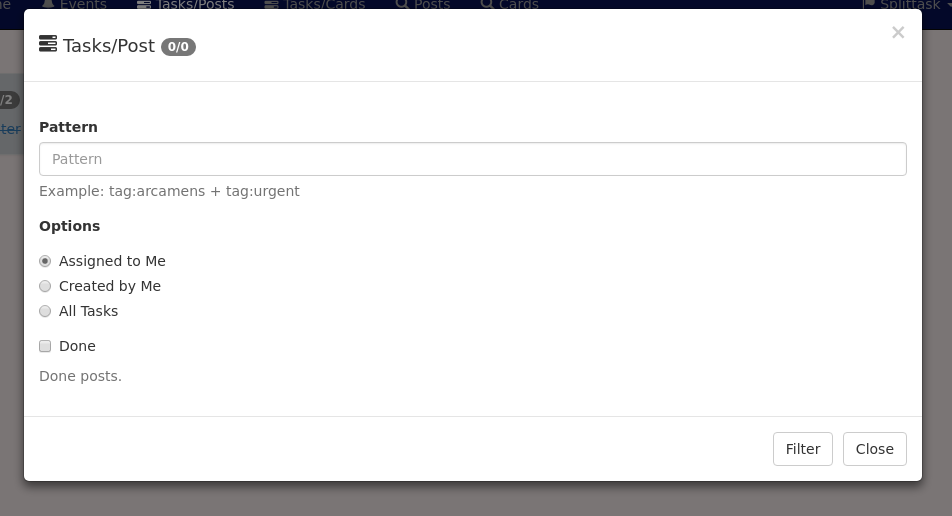
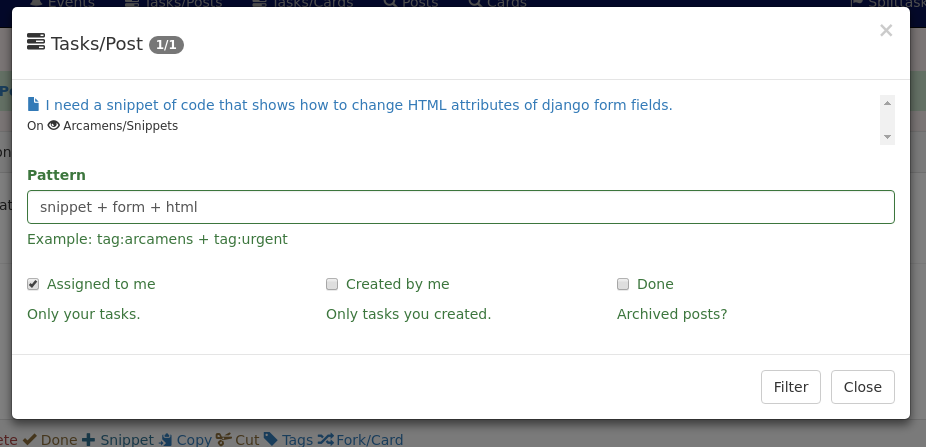
Updating docs. https://staging.arcamens.com/card_app/card-link/636/

diff --git a/site_app/static/site_app/help/index.html b/site_app/static/site_app/help/index.html
@@ -31,8 +31,8 @@
 <li><a href="#board-permissions">Board Permissions</a></li>
 <li><a href="#tag-creation">Tag Creation</a></li>
 <li><a href="#card-tags">Card Tags</a></li>
-<li><a href="#search-for-card-tasks">Search for Card Tasks</a></li>
 <li><a href="#card-search">Card Search</a></li>
+<li><a href="#search-for-card-tasks">Search for Card Tasks</a></li>
 <li><a href="#organization-creation">Organization Creation</a></li>
 <li><a href="#timelines">Timelines</a></li>
 <li><a href="#timeline-creation">Timeline Creation</a></li>
@@ -45,8 +45,8 @@
 <li><a href="#organization-admins">Organization Admins</a></li>
 <li><a href="#timeline-members">Timeline Members</a></li>
 <li><a href="#post-e-mailnotifications">Post E-mail/Notifications</a></li>
-<li><a href="#search-for-post-tasks">Search for Post Tasks</a></li>
 <li><a href="#post-search">Post Search</a></li>
+<li><a href="#search-for-post-tasks">Search for Post Tasks</a></li>
 <li><a href="#event-comments">Event Comments</a></li>
 <li><a href="#post-filter">Post Filter</a></li>
 <li><a href="#collection-filter">Collection Filter</a></li>
@@ -216,36 +216,6 @@ Github/Doing
 <img src="/static/site_app/help/card-tags-3.png" alt="card-tags-3" /><figcaption>card-tags-3</figcaption>
 </figure>
 <p>If you add/remove a tag to a card then everyone who is related to the card will get notified. You can look up the card tags by typing some pattern that shows on the tag name/description then hit enter. It is useful when your organization has many tags.</p>
-<h3 id="search-for-card-tasks">Search for Card Tasks</h3>
-<p>In arcamens there is a generic concept of task, a card becomes into a task when it is assigned to someone. When the task is accomplished then one can just archive it. The card will remain available for later inspection.</p>
-<p>In order to search for active or archived cards that contain bound workers to, just click on the Tasks/Cards at the navbar:</p>
-<p><strong>Note:</strong> The mechanism will match the search pattern against all cards that can be accessed by you.</p>
-<figure>
-<img src="/static/site_app/help/search-for-card-tasks-0.png" alt="search-for-card-tasks-0" /><figcaption>search-for-card-tasks-0</figcaption>
-</figure>
-<p>From the dialog window you can search through all cards that have at least one user bound to.</p>
-<figure>
-<img src="/static/site_app/help/search-for-card-tasks-1.png" alt="search-for-card-tasks-1" /><figcaption>search-for-card-tasks-1</figcaption>
-</figure>
-<p><strong>Assigned to me</strong></p>
-<p>When this option is checked then the filter pattern will be matched against all cards that were assigned to you.</p>
-<p><strong>Created by Me</strong></p>
-<p>When this option is checked then the filter pattern will match all cards that were assigned to someone and the owner is you.</p>
-<p><strong>All Tasks</strong></p>
-<p>Use this option for matching the filter pattern over all cards that contain at least one worker assigned to.</p>
-<p><strong>Done</strong></p>
-<p>This option allows to search for archived cards instead of active ones.</p>
-<p>Consider the filter pattern below and the three listed cards in the above picture. Assume you dont know who has created such a card then leave the All Tasks option checked.</p>
-<pre><code>any + create + tag</code></pre>
-<p>The above pattern would match the card label is:</p>
-<pre><code>Anybody can create/delete a tag </code></pre>
-<p>If you wrote as pattern:</p>
-<pre><code>bug with + zone</code></pre>
-<p>It would match:</p>
-<pre><code>Bug with timezone. </code></pre>
-<p>Notice that it also checks for card data attribute (the one which can contain markdown). The string patterns are delimited by the plus sign ‘+’, the listed cards should contain each one of the pattern strings either in the label or data attribute.</p>
-<p>You can get more than one match depending on the pattern and the existing cards. Once you have filtered the cards then you can click on the card link and open it in the actual browser tab or just right click and open in a new tab.</p>
-<p><strong>See:</strong> <a href="#advanced-card-search">Advanced Card Search</a></p>
 <h3 id="card-search">Card Search</h3>
 <p>In order to perform global card search just click on: Cards at the navbar.</p>
 <figure>
@@ -260,6 +230,26 @@ Github/Doing
 <pre><code>python django + render template + form</code></pre>
 <p>It would list all cards that contain the strings ‘python django’, ‘render template’ ad ‘form’ either in the label or data attribute.</p>
 <p>Notice that if you wanted the search pattern to be matched against archived cards instead, then it would be necessary to mark the field Done as checked.</p>
+<p><strong>See:</strong> <a href="#advanced-card-search">Advanced Card Search</a></p>
+<h3 id="search-for-card-tasks">Search for Card Tasks</h3>
+<p>In arcamens there is a generic concept of task, a card becomes a task when it is assigned to someone. When the task is accomplished then one can just archive it. The card will remain available for later inspection.</p>
+<p>In order to search for active or archived cards that contain bound workers to, just click on the Tasks/Cards at the navbar:</p>
+<p><strong>Note:</strong> The mechanism will match the search pattern against all cards that can be accessed by you.</p>
+<figure>
+<img src="/static/site_app/help/search-for-card-tasks-0.png" alt="search-for-card-tasks-0" /><figcaption>search-for-card-tasks-0</figcaption>
+</figure>
+<p>From the dialog window you can search through all cards that have at least one user bound to.</p>
+<figure>
+<img src="/static/site_app/help/search-for-card-tasks-1.png" alt="search-for-card-tasks-1" /><figcaption>search-for-card-tasks-1</figcaption>
+</figure>
+<p><strong>Assigned to me</strong></p>
+<p>When this option is checked then the filter pattern will be matched against all cards that were assigned to you.</p>
+<p><strong>Created by Me</strong></p>
+<p>When this option is checked then the filter pattern will match all cards that were assigned to someone and the owner is you.</p>
+<p><strong>Done</strong></p>
+<p>This option allows to search for archived cards instead of active ones.</p>
+<p>In the above example it finds all cards that are assigned to you and contain the strings ‘bug’ and ‘timezone’ either in the label or data attributes.</p>
+<p>You can get more than one match depending on the pattern and the existing cards. Once you have filtered the cards then you can click on the card link and open it in the actual browser tab or just right click and open in a new tab.</p>
 <p><strong>See:</strong> <a href="#advanced-card-search">Advanced Card Search</a></p>
 <h3 id="organization-creation">Organization Creation</h3>
 <p>Organizations can serve on multiple purposes depending on the kind of business and size. You can map a team to an organization, a business branch to an organization or even handle all your business team in a single organization.</p>
@@ -392,34 +382,6 @@ Github/Doing
 </figure>
 <p>Fill the form and send the e-mail notification.</p>
 <p>You can as well send notification to all post workers by clicking on Alert Workers.</p>
-<h3 id="search-for-post-tasks">Search for Post Tasks</h3>
-<p>When a post is created and it is assigned to someone then it becomes a task. It is possible to search for archived or active tasks by clicking at the Tasks/Posts link at the navbar:</p>
-<figure>
-<img src="/static/site_app/help/search-for-post-tasks-0.png" alt="search-for-post-tasks-0" /><figcaption>search-for-post-tasks-0</figcaption>
-</figure>
-<p>Then you would get:</p>
-<figure>
-<img src="/static/site_app/help/search-for-post-tasks-1.png" alt="search-for-post-tasks-1" /><figcaption>search-for-post-tasks-1</figcaption>
-</figure>
-<p>The option <strong>Assigned to Me</strong> would perform the search pattern through all tasks that someone has assigned to you even if it was assigned by yourself.</p>
-<p>If you option for <strong>Created by Me</strong> then it would check the pattern against all posts that you created and it was at least one worker binded to.</p>
-<p>When <strong>All Tasks</strong> is checked then it matches against all posts that you were assigned to or are on all your timelines.</p>
-<p>The simplest example of pattern consists of merely strings:</p>
-<pre><code>bug with engine</code></pre>
-<p>The above example would list all posts whose label or data fields contain the entire string.</p>
-<figure>
-<img src="/static/site_app/help/search-for-post-tasks-2.png" alt="search-for-post-tasks-2" /><figcaption>search-for-post-tasks-2</figcaption>
-</figure>
-<p>You could do:</p>
-<pre><code>bug with + engine</code></pre>
-<p>In the above example it would list all posts that contains both two strings.</p>
-<figure>
-<img src="/static/site_app/help/search-for-post-tasks-3.png" alt="search-for-post-tasks-3" /><figcaption>search-for-post-tasks-3</figcaption>
-</figure>
-<p><strong>Note:</strong> You are allowed to form longer patterns like:</p>
-<pre><code>bug + with + engine + driver</code></pre>
-<p>It would list all posts that contains all the strings either in the label or markdown data fields.</p>
-<p><strong>Note:</strong> Leave the Done attribute checked for searching only through the archived posts.</p>
 <h3 id="post-search">Post Search</h3>
 <p>The post search mechanism allows to search through all posts that you have access regardless if it has a worker or not. For such just click on the Post link at the navbar:</p>
 <figure>
@@ -435,6 +397,22 @@ Github/Doing
 <p>Would find all posts where the strings ‘bug’ or ‘engine wheels’ show up.</p>
 <pre><code>bug + engine wheels</code></pre>
 <p>Leave the <strong>Done</strong> field checked to search only through archived posts.</p>
+<h3 id="search-for-post-tasks">Search for Post Tasks</h3>
+<p>When a post is created and it is assigned to someone then it becomes a task. It is possible to search for archived or active tasks by clicking at the Tasks/Posts link at the navbar:</p>
+<figure>
+<img src="/static/site_app/help/search-for-post-tasks-0.png" alt="search-for-post-tasks-0" /><figcaption>search-for-post-tasks-0</figcaption>
+</figure>
+<p>Then you would get:</p>
+<figure>
+<img src="/static/site_app/help/search-for-post-tasks-1.png" alt="search-for-post-tasks-1" /><figcaption>search-for-post-tasks-1</figcaption>
+</figure>
+<p>The option <strong>Assigned to me</strong> would perform the search pattern through all tasks that someone has assigned to you even if it was assigned by yourself.</p>
+<p>If you option for <strong>Created by me</strong> then it would check the pattern against all posts that you created and it was at least one worker binded to.</p>
+<p>In the above example it matches all cards that you are assigned to and contains the strings ‘snippet’, ‘form’, ‘html’.</p>
+<p>Notice that the order of strings is not relevant; You could also try:</p>
+<pre><code>need a snippet + form + html</code></pre>
+<p>Which would work alike.</p>
+<p><strong>Note:</strong> Leave the Done attribute checked for searching only through the archived posts.</p>
 <h3 id="event-comments">Event Comments</h3>
 <p>All kind of user actions in Arcamens are liable of being commented. Whenever an user assigns a worker to a post it generates an event then the event/action can be commented out.</p>
 <p>When an user action is commented then another event is generated but it doesn’t allow comments for action comments.</p>

diff --git a/site_app/static/site_app/help/index.md b/site_app/static/site_app/help/index.md
@@ -234,78 +234,6 @@ If you add/remove a tag to a card then everyone who is related to the card will 
 You can look up the card tags by typing some pattern that shows on the tag name/description then hit enter.
 It is useful when your organization has many tags.
 
-### Search for Card Tasks 
-
-In arcamens there is a generic concept of task, a card becomes into a task when it is
-assigned to someone. When the task is accomplished then one can just archive it. 
-The card will remain available for later inspection.
-
-In order to search for active or archived cards that contain bound workers to, just click on the Tasks/Cards
-at the navbar:
-
-**Note:** The mechanism will match the search pattern against all cards that can be accessed by you.
-
-![search-for-card-tasks-0](/static/site_app/help/search-for-card-tasks-0.png)
-
-From the dialog window you can search through all cards that have at least one user
-bound to. 
-
-![search-for-card-tasks-1](/static/site_app/help/search-for-card-tasks-1.png)
-
-**Assigned to me**
-
-When this option is checked then the filter pattern will be matched
-against all cards that were assigned to you.
-
-**Created by Me**
-
-When this option is checked then the filter pattern will match
-all cards that were assigned to someone and the owner is you.
-
-**All Tasks**
-
-Use this option for matching the filter pattern over all cards
-that contain at least one worker assigned to.
-
-**Done**
-
-This option allows to search for archived cards instead of active ones.
-
-Consider the filter pattern below and the three listed cards in the above picture.
-Assume you dont know who has created such a card then leave the All Tasks option checked.
-
-~~~
-any + create + tag
-~~~
-
-The above pattern would match the card label is:
-
-~~~
-Anybody can create/delete a tag 
-~~~
-
-If you wrote as pattern:
-
-~~~
-bug with + zone
-~~~
-
-It would match:
-
-~~~
-Bug with timezone. 
-~~~
-
-Notice that it also checks for card data attribute (the one which can contain markdown).
-The string patterns are delimited by the plus sign '+', the listed cards should contain
-each one of the pattern strings either in the label or data attribute.
-
-You can get more than one match depending on the pattern and the existing cards.
-Once you have filtered the cards then you can click on the card link and open it in the
-actual browser tab or just right click and open in a new tab.
-
-**See:** [Advanced Card Search](#advanced-card-search)
-
 ### Card Search
 
 In order to perform global card search just click on: Cards
@@ -334,6 +262,47 @@ ad 'form' either in the label or data attribute.
 Notice that if you wanted the search pattern to be matched against archived cards instead,
 then it would be necessary to mark the field Done as checked.
 
+
+**See:** [Advanced Card Search](#advanced-card-search)
+
+### Search for Card Tasks 
+
+In arcamens there is a generic concept of task, a card becomes a task when it is
+assigned to someone. When the task is accomplished then one can just archive it. 
+The card will remain available for later inspection.
+
+In order to search for active or archived cards that contain bound workers to, just click on the Tasks/Cards
+at the navbar:
+
+**Note:** The mechanism will match the search pattern against all cards that can be accessed by you.
+
+![search-for-card-tasks-0](/static/site_app/help/search-for-card-tasks-0.png)
+
+From the dialog window you can search through all cards that have at least one user
+bound to. 
+
+![search-for-card-tasks-1](/static/site_app/help/search-for-card-tasks-1.png)
+
+**Assigned to me**
+
+When this option is checked then the filter pattern will be matched
+against all cards that were assigned to you.
+
+**Created by Me**
+
+When this option is checked then the filter pattern will match
+all cards that were assigned to someone and the owner is you.
+
+**Done**
+
+This option allows to search for archived cards instead of active ones.
+
+In the above example it finds all cards that are assigned to you
+and contain the strings 'bug' and 'timezone' either in the label or data attributes.
+
+You can get more than one match depending on the pattern and the existing cards.
+Once you have filtered the cards then you can click on the card link and open it in the
+actual browser tab or just right click and open in a new tab.
 
 **See:** [Advanced Card Search](#advanced-card-search)
 
@@ -534,56 +503,6 @@ Fill the form and send the e-mail notification.
 
 You can as well send notification to all post workers by clicking on Alert Workers.
 
-### Search for Post Tasks
-
-When a post is created and it is assigned to someone then it becomes a task.
-It is possible to search for archived or active tasks by clicking at the Tasks/Posts link
-at the navbar:
-
-![search-for-post-tasks-0](/static/site_app/help/search-for-post-tasks-0.png)
-
-Then you would get:
-
-![search-for-post-tasks-1](/static/site_app/help/search-for-post-tasks-1.png)
-
-The option **Assigned to Me** would perform the search pattern through
-all tasks that someone has assigned to you even if it was assigned by yourself.
-
-If you option for  **Created by Me** then it would check the pattern against all posts
-that you created and it was at least one worker binded to.
-
-When **All Tasks** is checked then it matches against all posts that you were assigned to
-or are on all your timelines.
-
-The simplest example of pattern consists of merely strings:
-
-    bug with engine
-
-
-The above example would list all posts whose label or data fields contain the entire
-string.
-
-![search-for-post-tasks-2](/static/site_app/help/search-for-post-tasks-2.png)
-
-You could do:
-
-    bug with + engine
-
-
-In the above example it would list all posts that contains both two strings.
-
-![search-for-post-tasks-3](/static/site_app/help/search-for-post-tasks-3.png)
-
-**Note:** You are allowed to form longer patterns like:
-
-
-    bug + with + engine + driver
-
-
-It would list all posts that contains all the strings either in the label or markdown data fields.
-
-**Note:** Leave the Done attribute checked for searching only through the archived posts.
-
 ### Post Search
 
 The post search mechanism allows to search through all posts that you have access regardless
@@ -609,6 +528,37 @@ Would find all posts where the strings 'bug' or 'engine wheels' show up.
 
 
 Leave the **Done** field checked to search only through archived posts.
+
+### Search for Post Tasks
+
+When a post is created and it is assigned to someone then it becomes a task.
+It is possible to search for archived or active tasks by clicking at the Tasks/Posts link
+at the navbar:
+
+![search-for-post-tasks-0](/static/site_app/help/search-for-post-tasks-0.png)
+
+Then you would get:
+
+![search-for-post-tasks-1](/static/site_app/help/search-for-post-tasks-1.png)
+
+The option **Assigned to me** would perform the search pattern through
+all tasks that someone has assigned to you even if it was assigned by yourself.
+
+If you option for  **Created by me** then it would check the pattern against all posts
+that you created and it was at least one worker binded to.
+
+In the above example it matches all cards that you are assigned to and contains
+the strings 'snippet', 'form', 'html'.
+
+Notice that the order of strings is not relevant; You could also try:
+
+~~~
+need a snippet + form + html
+~~~
+
+Which would work alike.
+
+**Note:** Leave the Done attribute checked for searching only through the archived posts.
 
 ### Event Comments
 
@@ -1058,6 +1008,7 @@ You would get:
 ![organization-settings-removal-1](/static/site_app/help/organization-settings-removal-1.png)
 
 ### Logs
+
 
 
 
